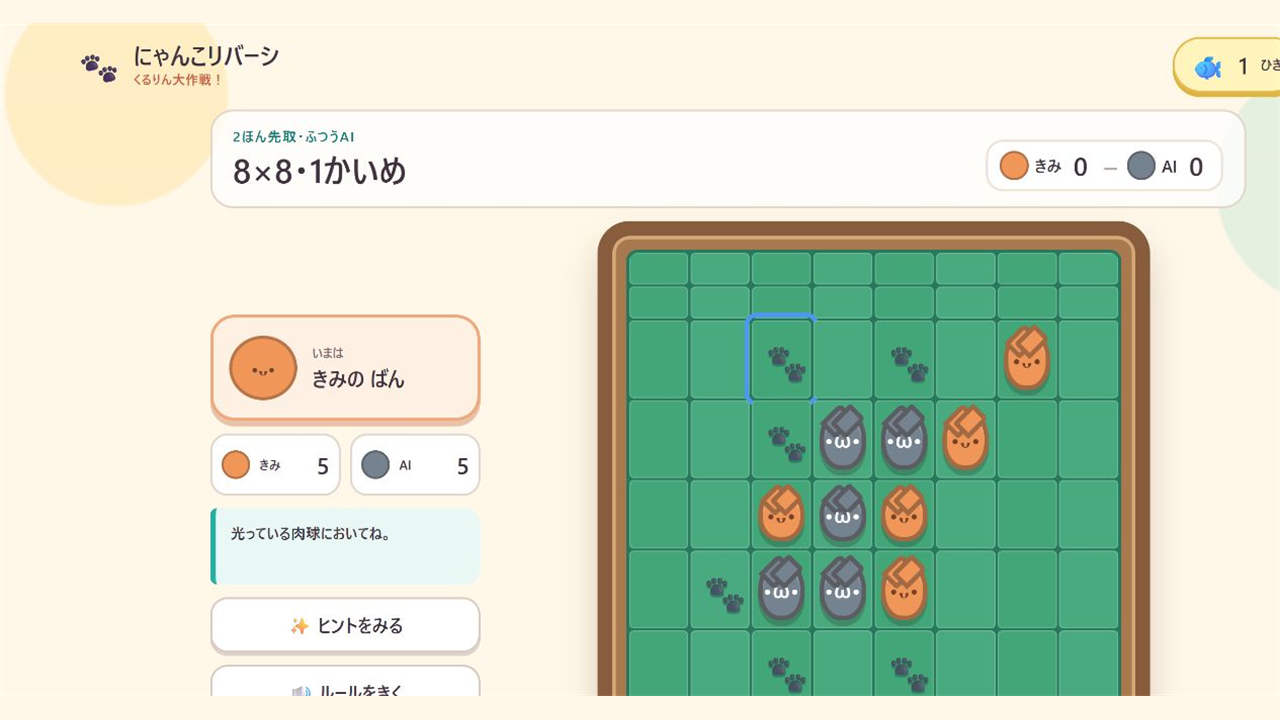
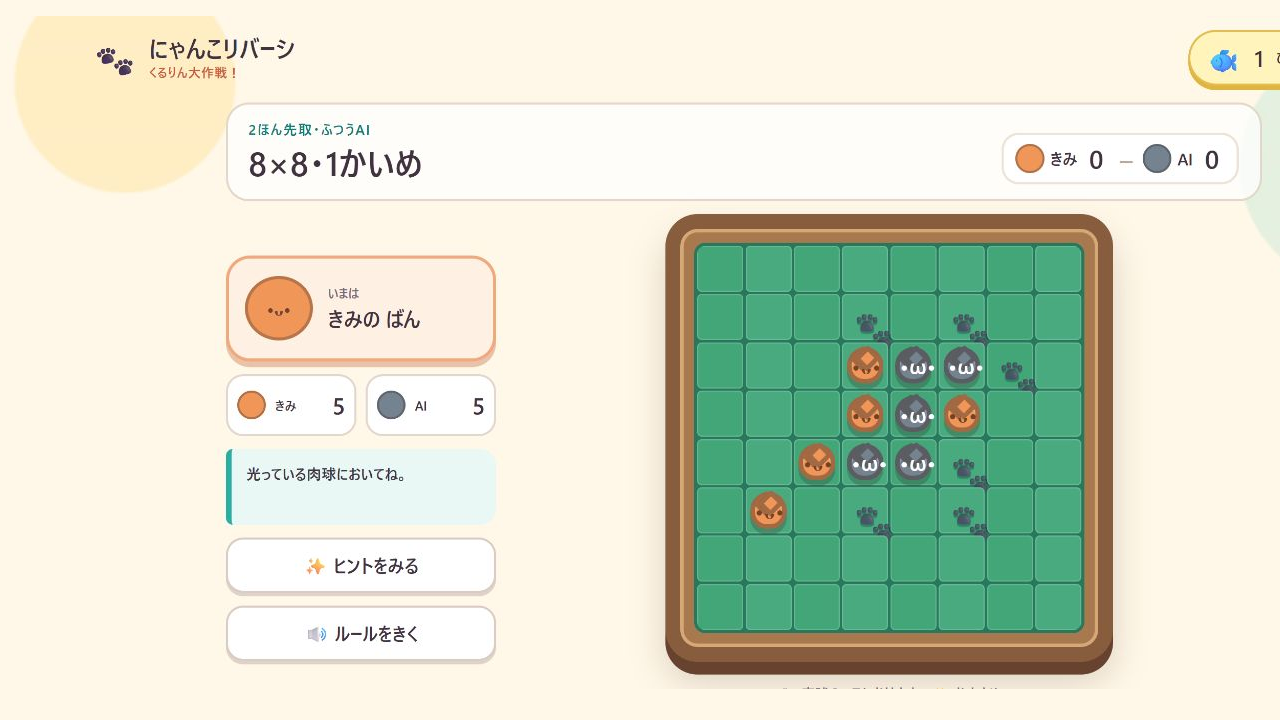
Keep Reversi board cells square

Changed region(s): [[0.0, 0.0, 1.0, 0.9778], [0.1562, 0.3361, 0.4062, 0.9778], [0.375, 0.3667, 0.4062, 0.3972]]

diff --git a/neko-reversi/style.css b/neko-reversi/style.css
@@ -366,6 +366,7 @@ main { padding: 0 max(14px, env(safe-area-inset-right)) max(28px, env(safe-area-
   --size: 8;
   display: grid;
   grid-template-columns: repeat(var(--size), minmax(0, 1fr));
+  grid-template-rows: repeat(var(--size), minmax(0, 1fr));
   width: 100%;
   aspect-ratio: 1;
   overflow: hidden;
@@ -566,6 +567,10 @@ main { padding: 0 max(14px, env(safe-area-inset-right)) max(28px, env(safe-area-
   .voice-status { margin-bottom: 7px; }
   .rules-dialog > .text-button { min-height: 38px; margin-top: 4px; }
   .voice-credit { margin-top: 4px; }
+}
+
+@media (max-height: 760px) and (min-width: 761px) {
+  .board-frame { width: min(54vh, 480px); }
 }
 
 @media (prefers-reduced-motion: reduce) {
